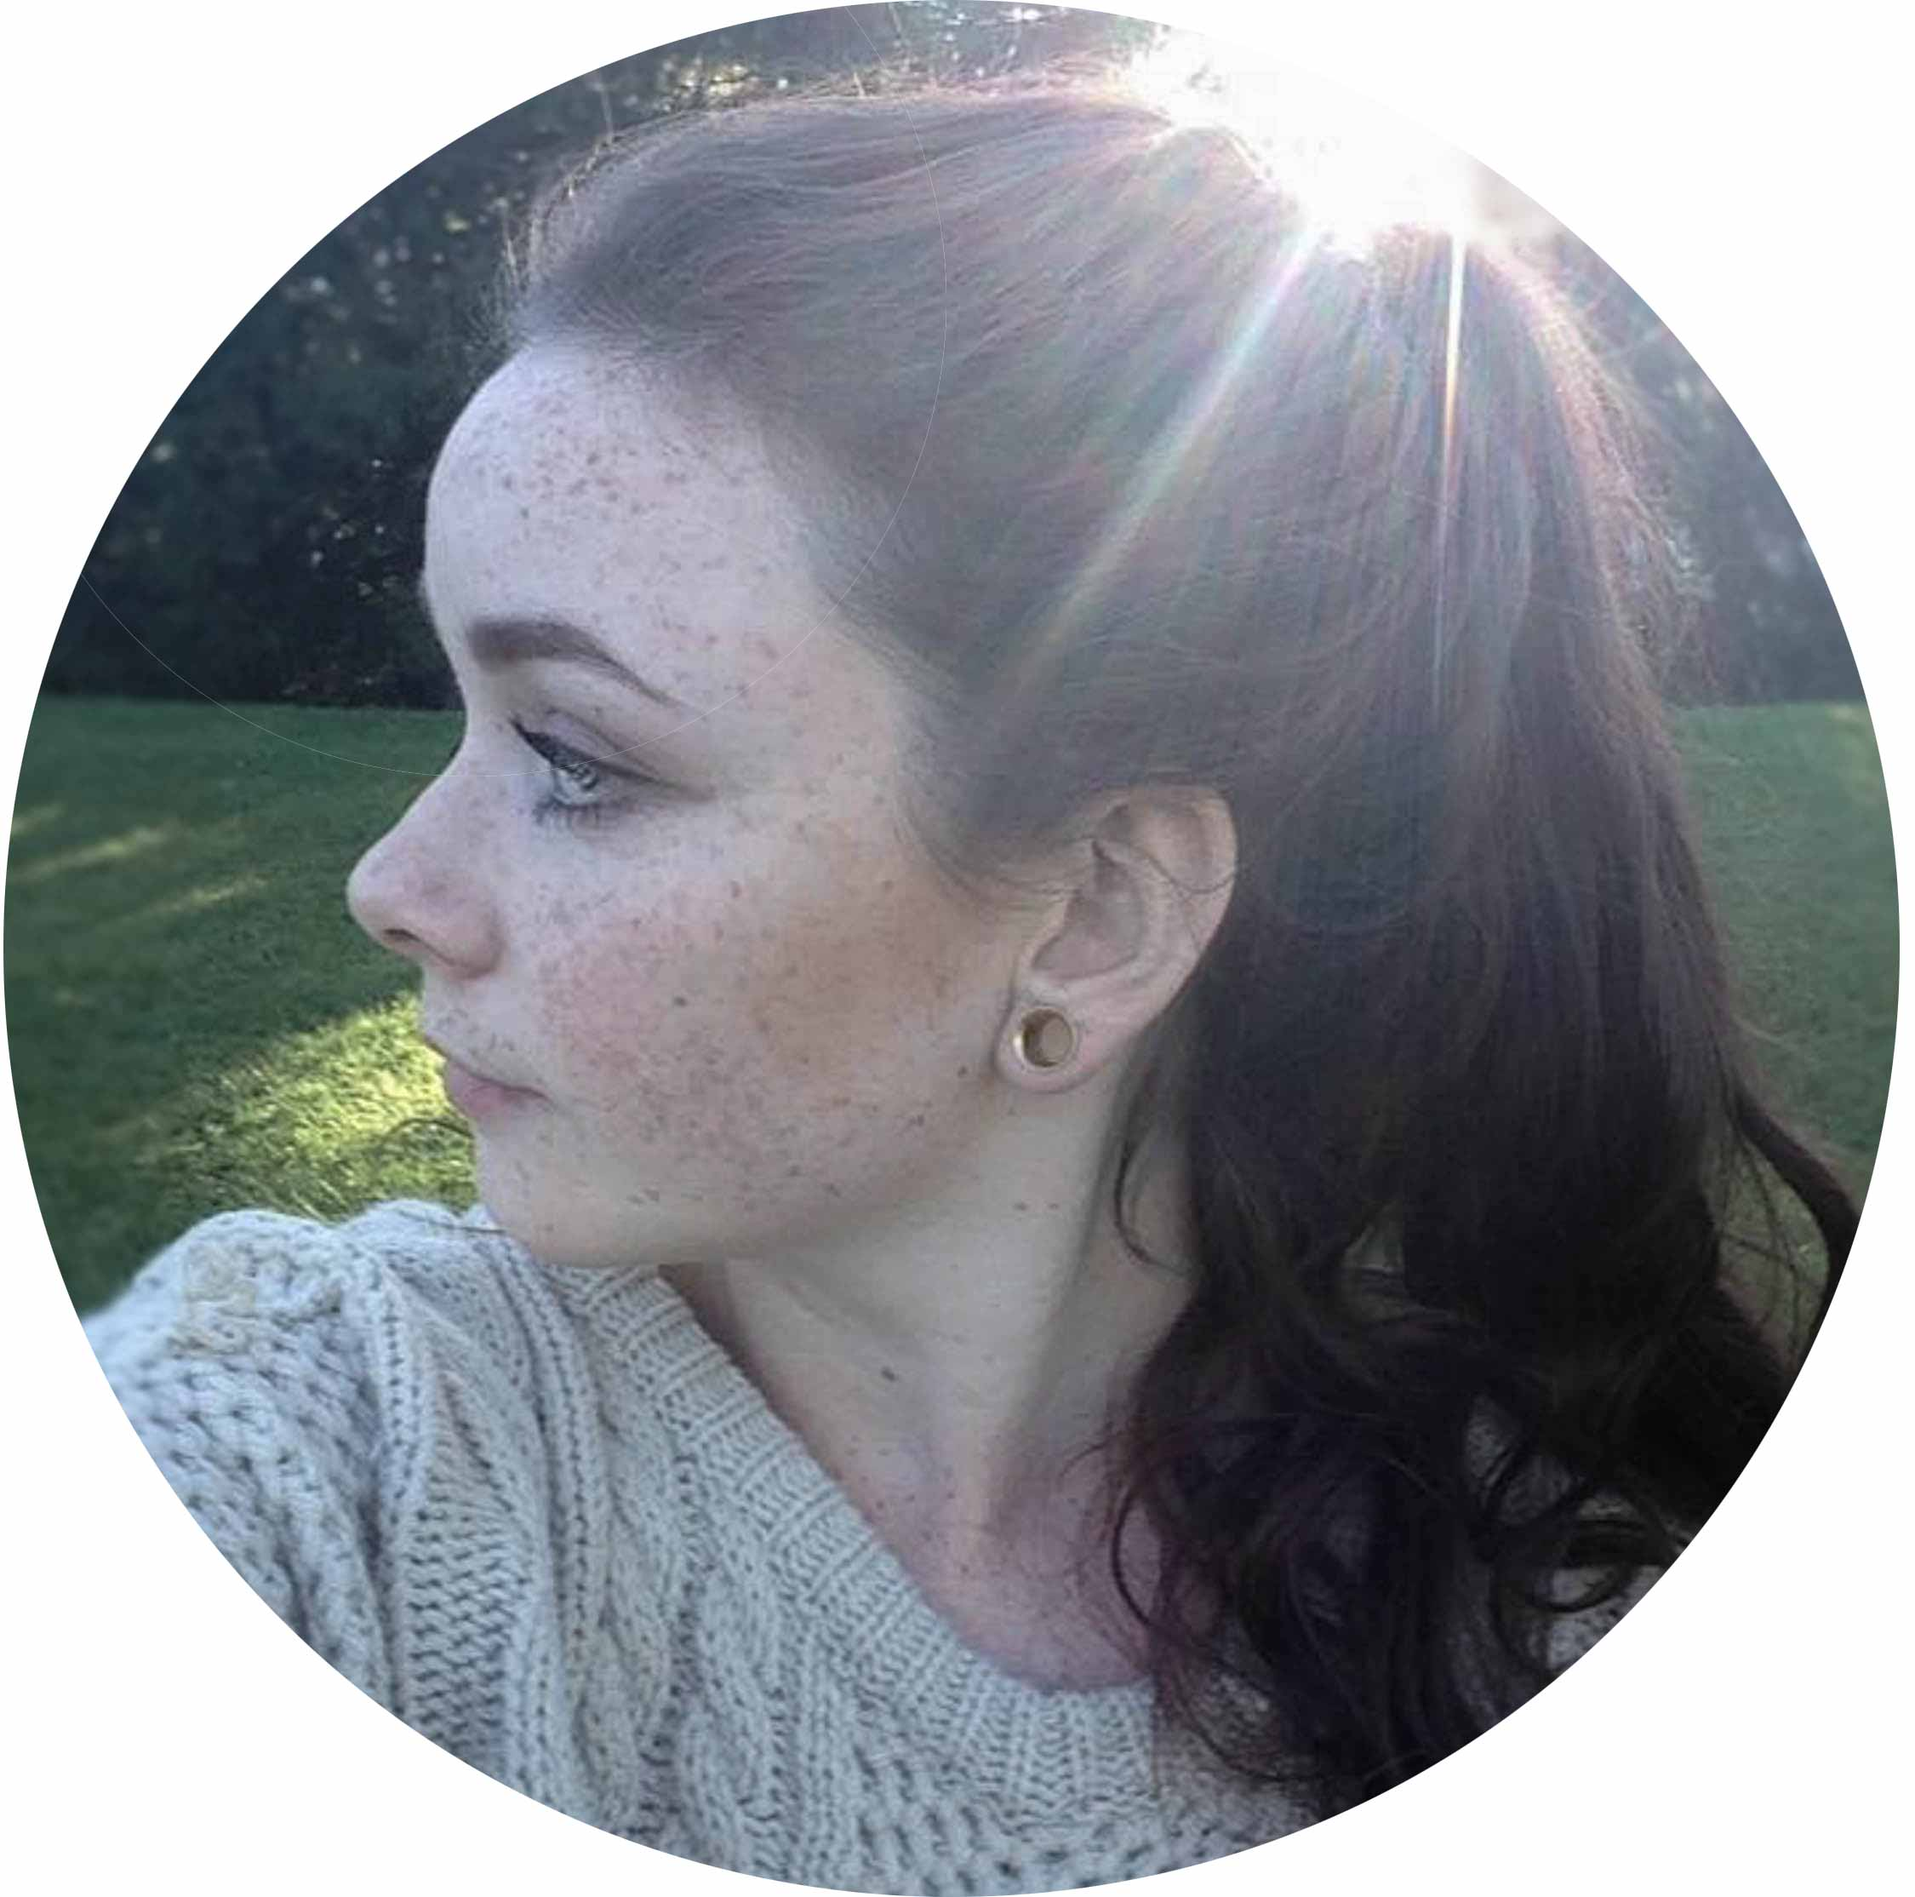
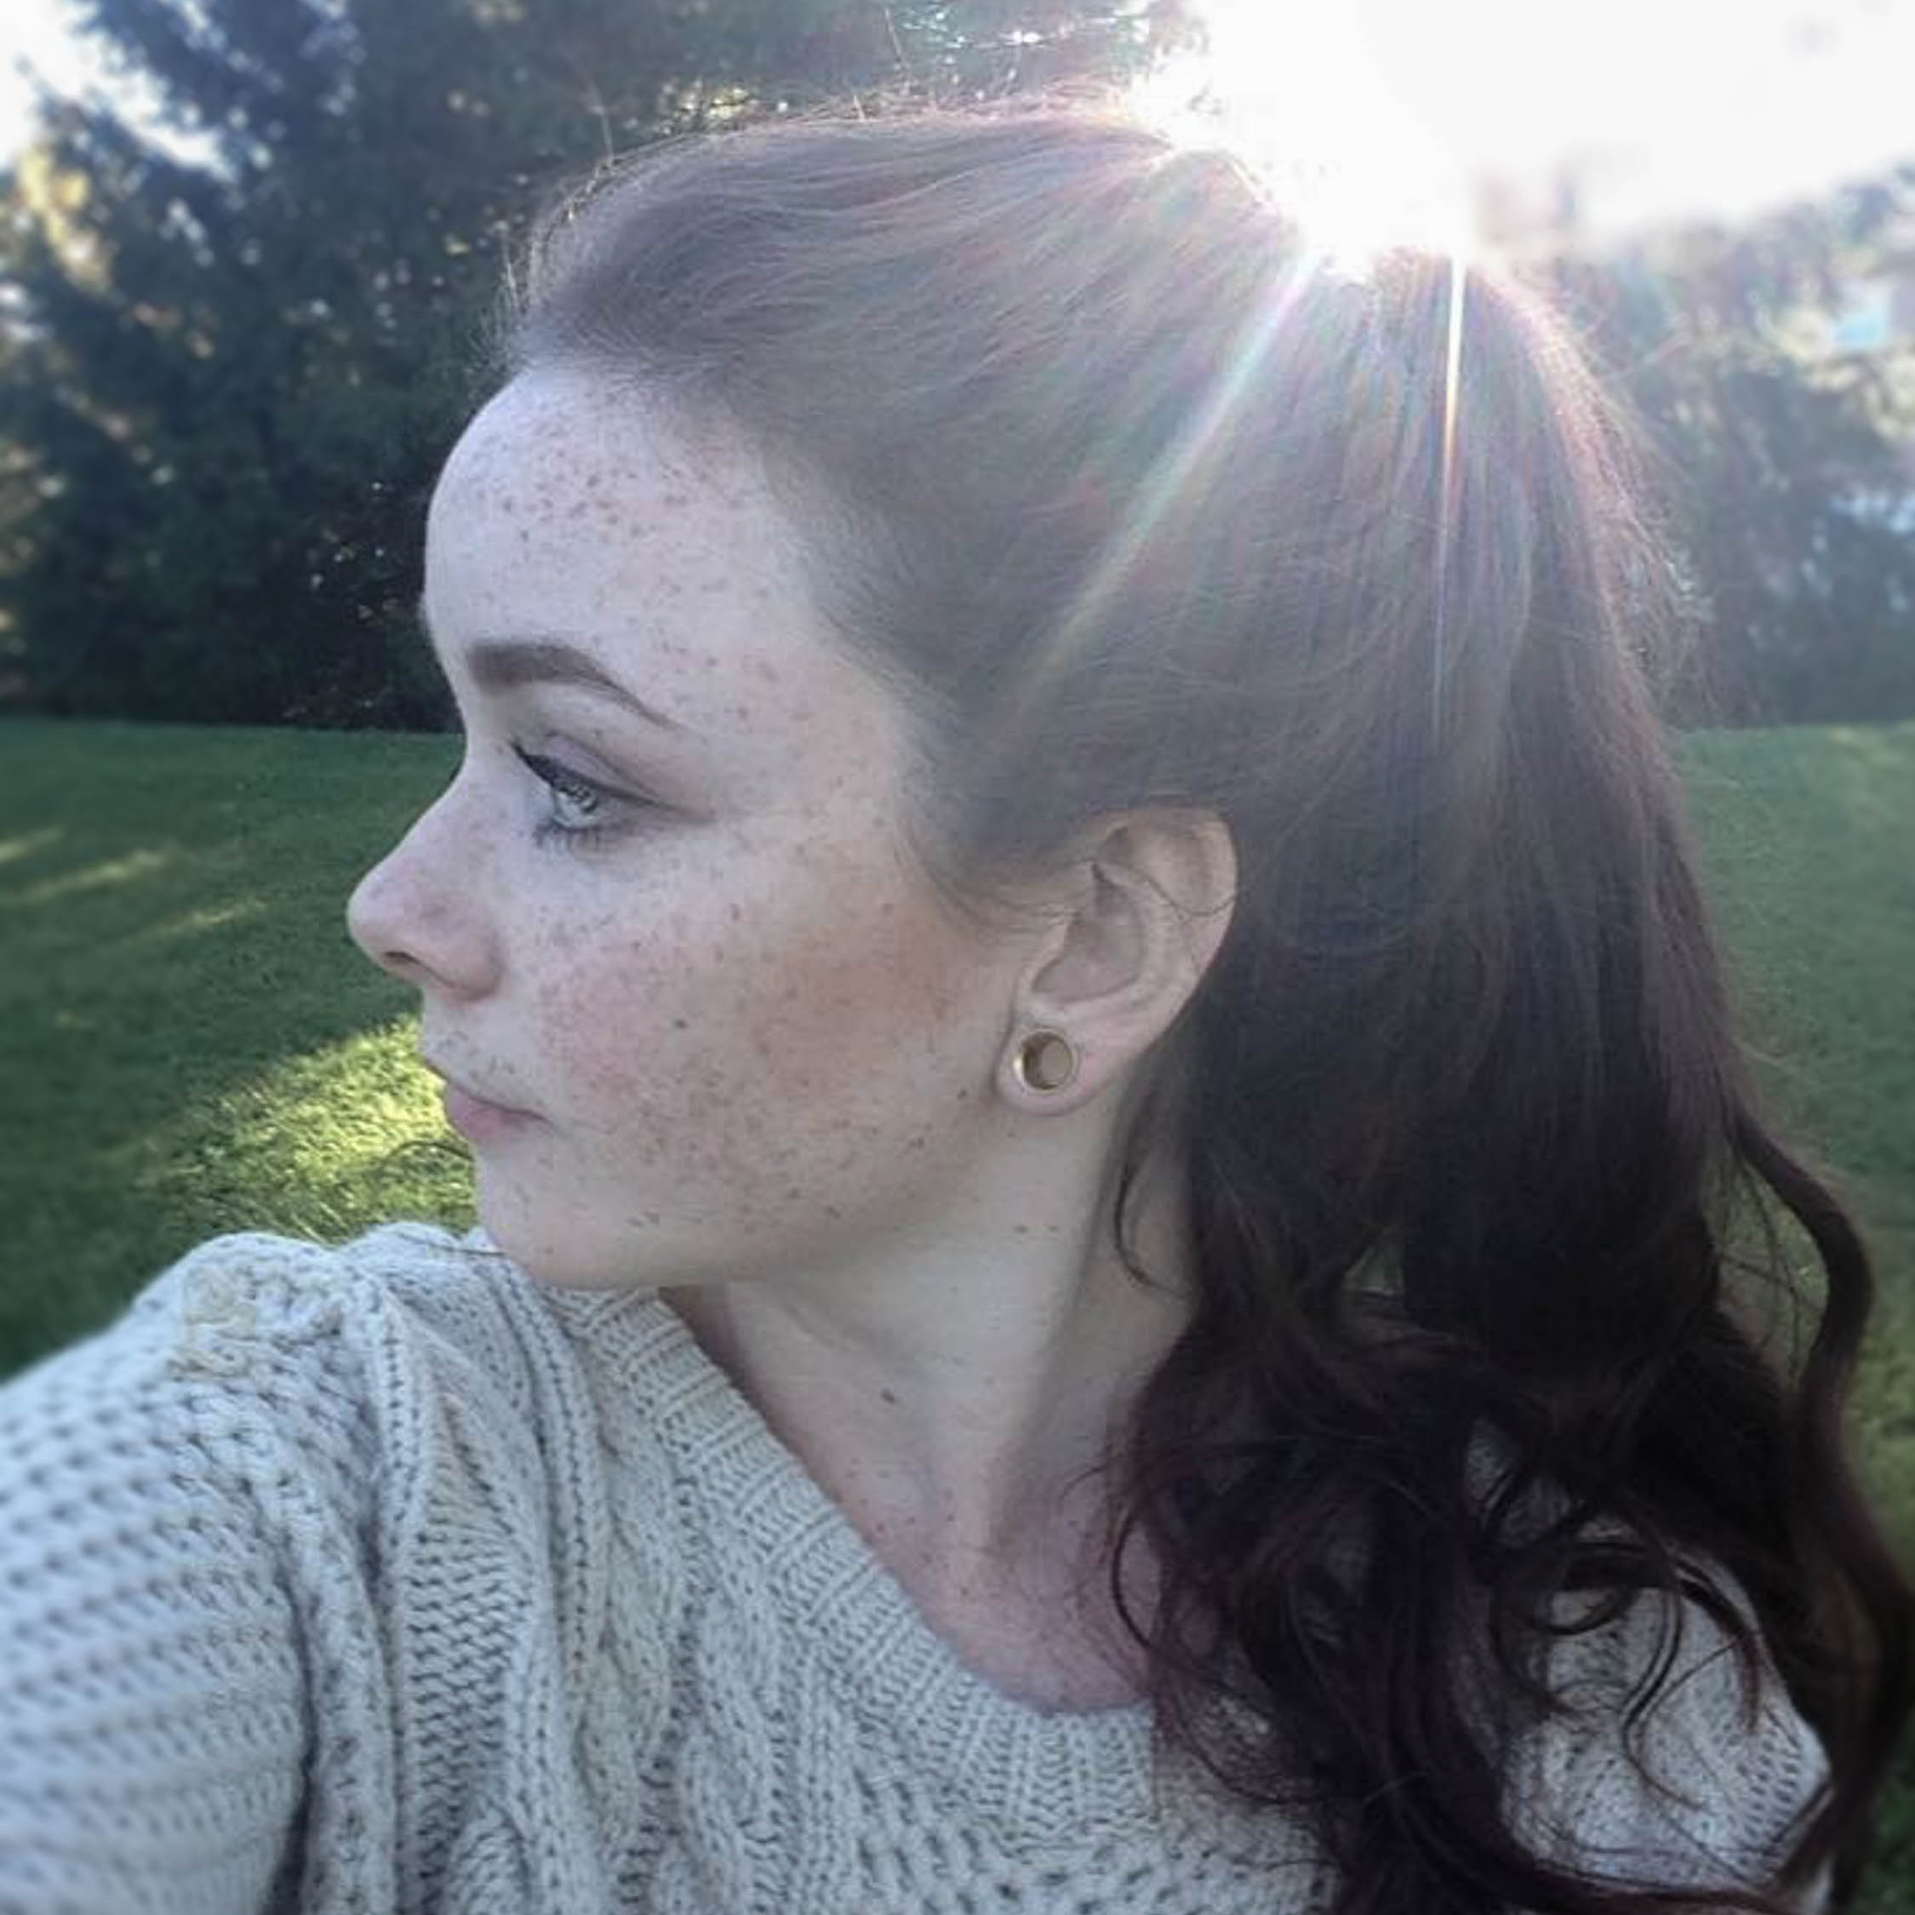
images

diff --git a/css/main.css b/css/main.css
@@ -13,7 +13,7 @@ body {
 
 .headshot {
   width: 100%;
-  padding: 10px 10px 0 10px;
+  border-radius: 50%;
 }
 
 h1 {
